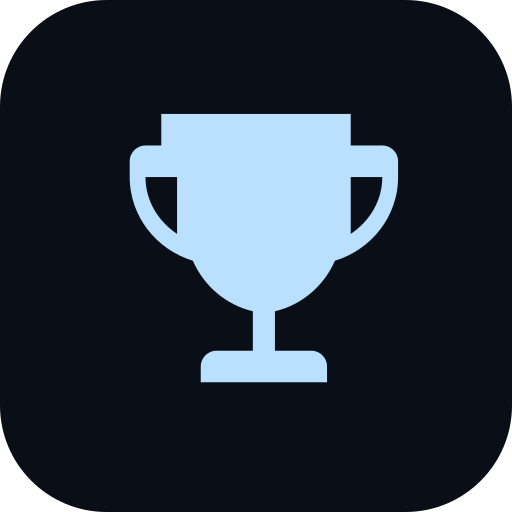
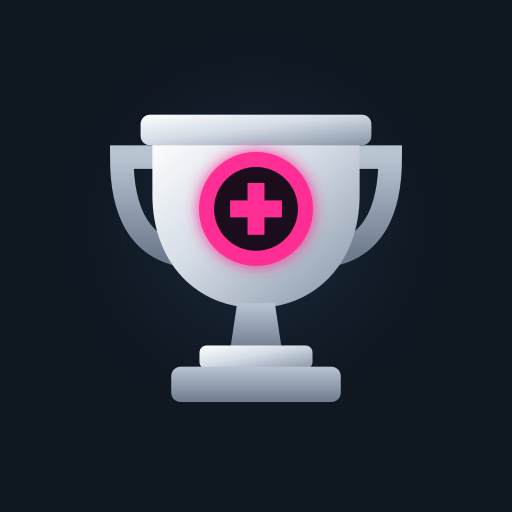
Nuevo ícono de la app y estrellas que nunca desbordan
- Ícono: trofeo plateado con el anillo rosa del logo, dibujado con asas de
  trazo (las del path anterior se veían rotas) y sobre el mismo fondo que la
  pantalla de carga, para que no quede un cuadrado oscuro flotando. El script
  genera también app/icon.svg para que favicon y PWA no diverjan.
- StarRatingDisplay: las estrellas se achican para entrar en su contenedor en
  vez de tener tamaño fijo; en "Últimas reseñas" se pisaban entre carátulas en
  un celular. La media estrella pasa a recortarse con clip-path.
- PROF-23: mide a 360px que estrellas e ícono de reseña quedan dentro de la
  carátula.

Claude-Session: https://claude.ai/code/session_01CH2GtwxeYH5iBFcVGVCP7Z

diff --git a/components/diary/StarRating.tsx b/components/diary/StarRating.tsx
@@ -34,24 +34,34 @@ const TONE_CLASS: Record<RatingTone, string> = {
 
 /**
  * Una estrella: el contorno apagado de base y, encima, la misma forma en el
- * color del tono, recortada al ancho que corresponda (0%, 50% o 100%).
+ * color del tono, recortada con `clip-path` (nada, la mitad izquierda o nada
+ * recortado).
  *
- * El recorte va en el contenedor y el ícono de adentro conserva el ancho
- * completo: así la media estrella es exactamente la mitad izquierda de la
- * entera, y no una forma distinta. Antes eran los glifos ★/☆, que cada sistema
- * dibuja con su propio ancho -- las cinco estrellas no alineaban entre
- * dispositivos y el color venía del emoji, no del tema.
+ * Las dos capas ocupan el cuadro entero de la estrella: así la media estrella
+ * es exactamente la mitad izquierda de la entera, y no una forma distinta.
+ * Antes eran los glifos ★/☆, que cada sistema dibuja con su propio ancho -- las
+ * cinco estrellas no alineaban entre dispositivos y el color venía del emoji,
+ * no del tema.
+ *
+ * `size` es el tamaño **máximo**: la estrella es un ítem flex que se encoge
+ * (`min-w-0` + `aspect-square`) si la fila no entra en su contenedor. Con
+ * tamaño fijo, cinco estrellas de 14px no entraban debajo de una carátula de
+ * la fila de "Últimas reseñas" en un celular y se pisaban con las de al lado.
  */
 function Star({ fill, size, tone }: { fill: 0 | 0.5 | 1; size: string; tone: RatingTone }) {
   return (
-    <span className={`relative block ${size}`} data-rating-tone={tone} aria-hidden="true">
-      <Icon name="star" className={`${size} text-ink-faint/40`} />
+    <span
+      className={`relative block aspect-square min-w-0 shrink ${size}`}
+      data-rating-tone={tone}
+      aria-hidden="true"
+    >
+      <Icon name="star" className="absolute inset-0 h-full w-full text-ink-faint/40" />
       {fill > 0 && (
         <span
-          className="pointer-events-none absolute inset-y-0 left-0 overflow-hidden"
-          style={{ width: fill === 0.5 ? "50%" : "100%" }}
+          className="pointer-events-none absolute inset-0"
+          style={fill === 0.5 ? { clipPath: "inset(0 50% 0 0)" } : undefined}
         >
-          <Icon name="star" className={`${size} ${TONE_CLASS[tone]}`} />
+          <Icon name="star" className={`h-full w-full ${TONE_CLASS[tone]}`} />
         </span>
       )}
     </span>
@@ -118,9 +128,14 @@ export function StarRatingDisplay({ rating, tone }: { rating: number | null; ton
   if (rating === null) return null;
   const stars = toStars(rating);
   return (
-    <span className="inline-flex items-center gap-0.5 align-middle" aria-label={`${rating}/10`}>
+    // `max-w-full` + `min-w-0`: la fila nunca se sale de su contenedor; si no
+    // entra, las estrellas se achican (ver `Star`) en vez de desbordar.
+    <span
+      className="inline-flex min-w-0 max-w-full items-center gap-0.5 align-middle"
+      aria-label={`${rating}/10`}
+    >
       {Array.from({ length: MAX_STARS }, (_, i) => (
-        <Star key={i + 1} fill={fillFor(stars, i + 1)} size="h-3.5 w-3.5" tone={tone} />
+        <Star key={i + 1} fill={fillFor(stars, i + 1)} size="w-3.5" tone={tone} />
       ))}
     </span>
   );

diff --git a/e2e/specs/19-profile.spec.ts b/e2e/specs/19-profile.spec.ts
@@ -100,6 +100,53 @@ test.describe.serial("Perfil", () => {
     ).toHaveCount(1);
   });
 
+  test("PROF-23: las estrellas de Últimas reseñas no se salen de su carátula en un celular", async ({
+    page,
+    supabase,
+    users,
+  }) => {
+    const game = await seedGameWithTrophies(supabase, users.userA.id, {
+      n: 1,
+      nameSuffix: "Perfil Estrellas",
+      np: 905,
+    });
+    await supabase.from("game_diary_entries").upsert(
+      {
+        user_id: users.userA.id,
+        game_id: game.gameId,
+        playthrough_number: 1,
+        rating: 9,
+        review: "[E2E] Reseña para medir las estrellas",
+        finished_on: "2026-05-06",
+      },
+      { onConflict: "user_id,game_id,playthrough_number" },
+    );
+
+    // 360px: el celular angosto típico. Cinco estrellas de 14px más el ícono
+    // de reseña no entraban debajo de una carátula de 1/5 del ancho y se
+    // pisaban con las de la carátula de al lado.
+    await page.setViewportSize({ width: 360, height: 800 });
+    await page.goto("/perfil");
+
+    const entry = page
+      .getByTestId("profile-diary-entry")
+      .filter({ has: page.getByRole("link", { name: testGameTitle("Perfil Estrellas") }) });
+    await expect(entry).toHaveCount(1);
+    const stars = entry.getByLabel("9/10");
+    const note = entry.getByRole("img", { name: "Tiene reseña" });
+    await expect(stars).toBeVisible();
+    await expect(note).toBeVisible();
+
+    const cell = await entry.boundingBox();
+    const starsBox = await stars.boundingBox();
+    const noteBox = await note.boundingBox();
+    expect(cell && starsBox && noteBox).toBeTruthy();
+    // Medio píxel de tolerancia por el redondeo subpíxel.
+    expect(starsBox!.x).toBeGreaterThanOrEqual(cell!.x - 0.5);
+    expect(starsBox!.x + starsBox!.width).toBeLessThanOrEqual(noteBox!.x + 0.5);
+    expect(noteBox!.x + noteBox!.width).toBeLessThanOrEqual(cell!.x + cell!.width + 0.5);
+  });
+
   test("PROF-09: el perfil de otro usuario muestra su Top 5 y sus reseñas", async ({
     page,
     supabase,

diff --git a/components/profile/RecentReviewsSection.tsx b/components/profile/RecentReviewsSection.tsx
@@ -53,7 +53,7 @@ export function RecentReviewsSection({
                         <Icon
                           name="note"
                           label="Tiene reseña"
-                          className="h-3.5 w-3.5 text-ink-faint"
+                          className="h-3.5 w-3.5 shrink-0 text-ink-faint"
                         />
                       )}
                     </span>

diff --git a/TESTING_PRD.md b/TESTING_PRD.md
@@ -459,6 +459,7 @@ ninguna API externa.
 | PROF-20 | Bio | Se edita en Configuración › Perfil y se ve debajo del avatar | P1 |
 | PROF-21 | Perfil ajeno (`33-profile-tabs.spec.ts`, #197) | Las cuatro tabs (Perfil · Diario · Listas · Playlist), sin engranaje ni editores, con Seguir / Siguiendo; las estadísticas aclaran que son públicas y no traen 100%, likes ni seguidores | **P0 (privacidad)** |
 | PROF-22 | Listas en el perfil (`33-profile-tabs.spec.ts`, #197) | Una lista privada no aparece en el perfil ajeno; en el propio aparece con candado | **P0 (privacidad)** |
+| PROF-23 | Estrellas de Últimas reseñas en mobile | A 360px de ancho, las cinco estrellas y el ícono de reseña quedan dentro de su carátula (se achican en vez de pisarse con las de al lado) | P1 |
 
 ### 6.11 Accesibilidad, mobile y PWA (`11-a11y-mobile.spec.ts`) — proyecto `mobile`
 
